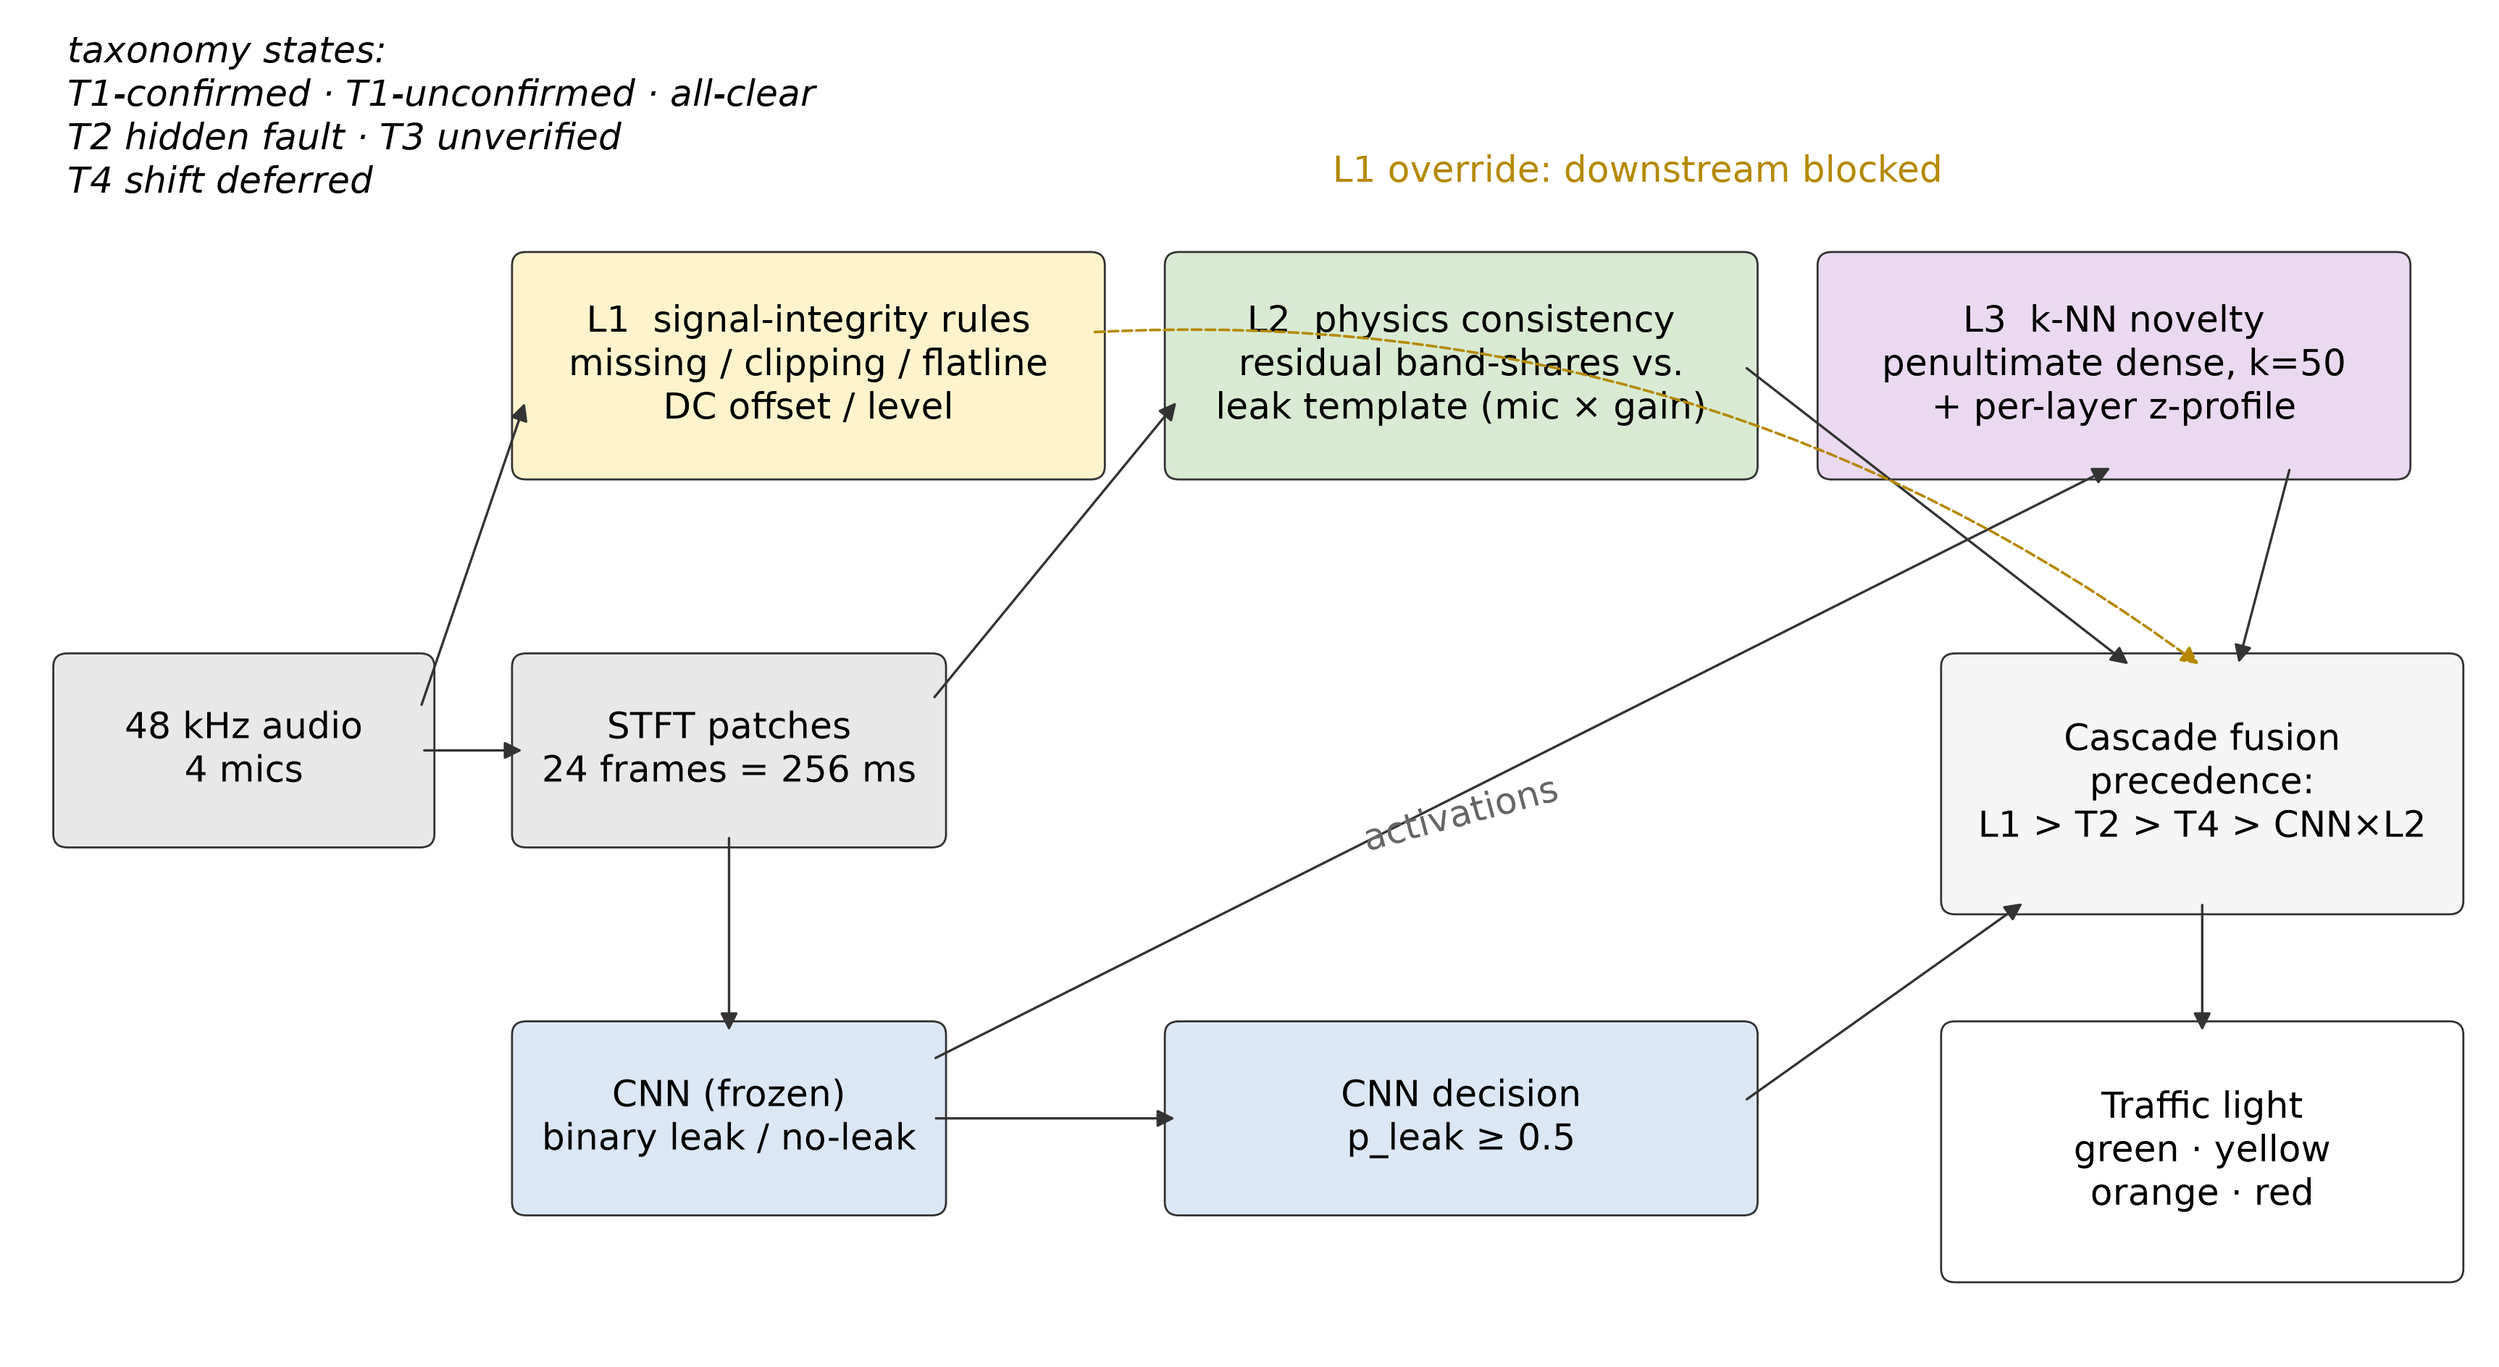
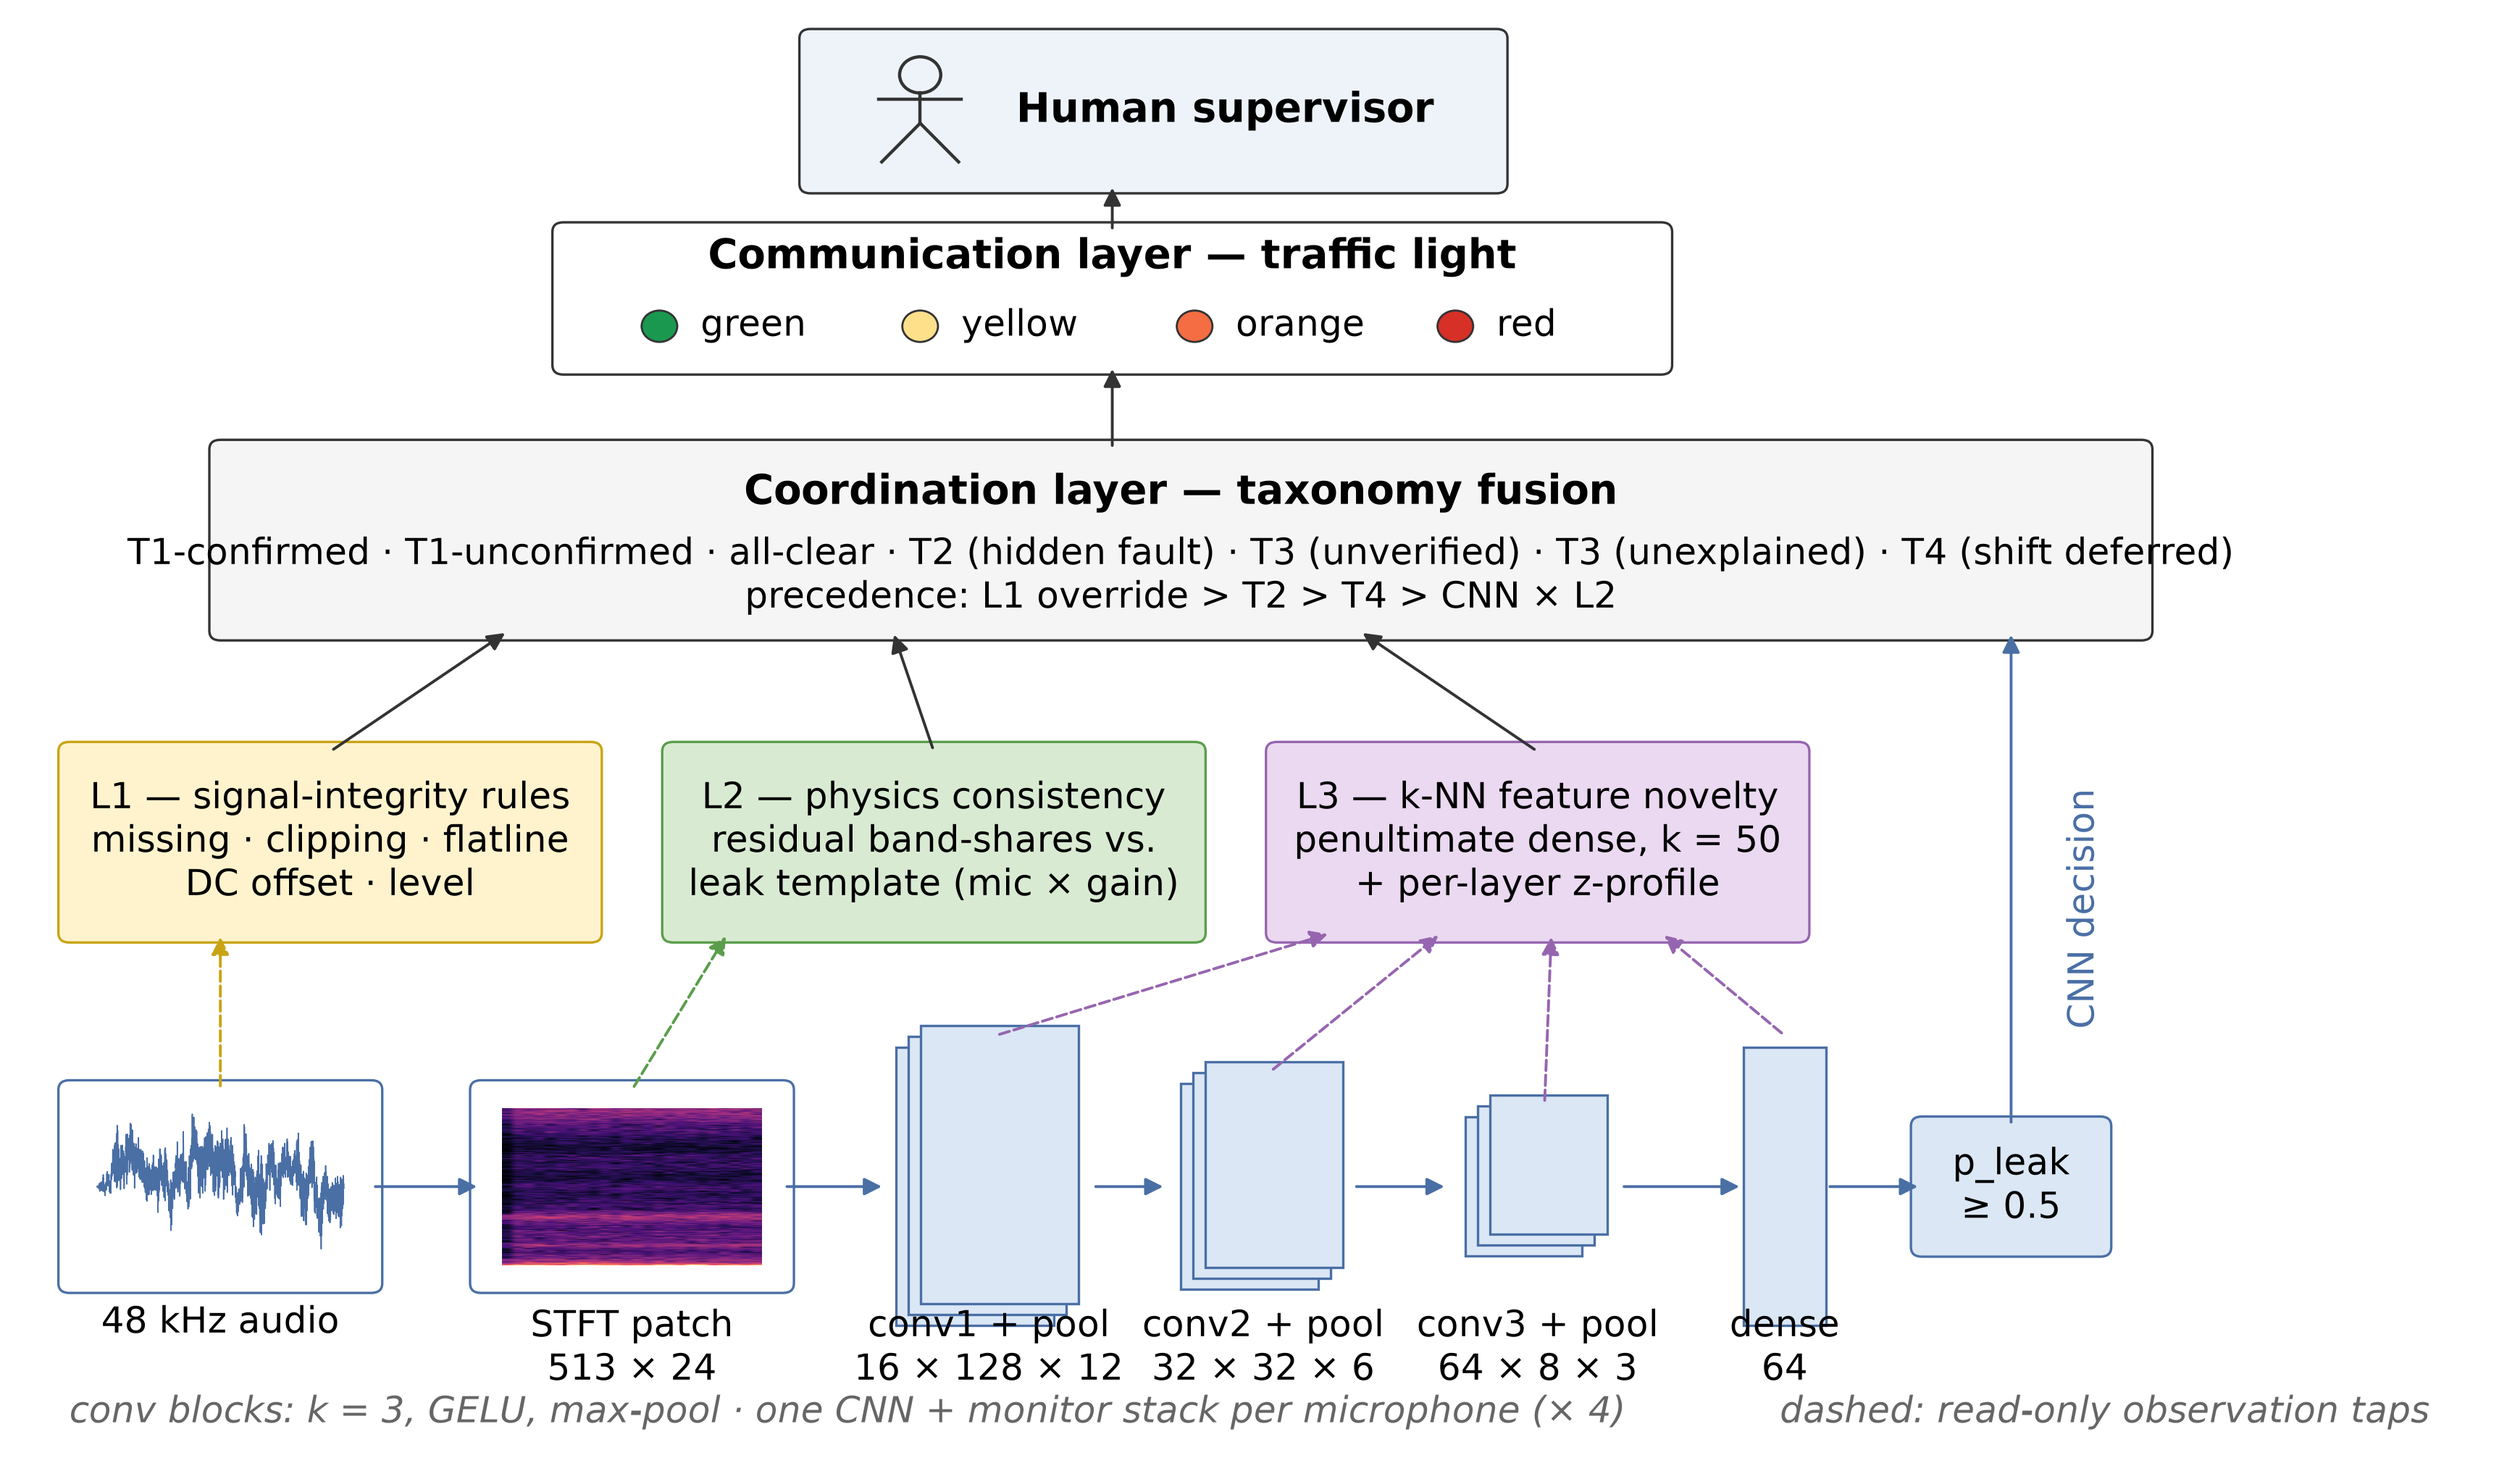
Redraw architecture figure: ML-style CNN pipeline with monitor taps and layer stack

diff --git a/monitoring/paper_figures.py b/monitoring/paper_figures.py
@@ -30,7 +30,7 @@ import matplotlib.pyplot as plt
 import numpy as np
 import pandas as pd
 import soundfile as sf
-from matplotlib.patches import FancyBboxPatch
+from matplotlib.patches import Circle, FancyBboxPatch, Rectangle
 from scipy import signal
 
 matplotlib.use("Agg")
@@ -105,60 +105,143 @@ def load(path: Path) -> np.ndarray:
 
 
 # ---------------------------------------------------------------------------
-def fig1() -> None:
-    fig, ax = plt.subplots(figsize=(22, 12))
-    ax.set_xlim(0, 14)
-    ax.set_ylim(0, 8)
+def fig1(index: pd.DataFrame) -> None:
+    """COMET architecture: CNN pipeline (ML-paper style) with the monitor
+    observation taps, feeding coordination -> communication -> supervisor."""
+    x = load(pick(index, leak_type="vent", background="lab",
+                  annotation="nio", knob=6.0))
+
+    fig, ax = plt.subplots(figsize=(22, 13))
+    ax.set_xlim(0, 18)
+    ax.set_ylim(0, 12)
     ax.axis("off")
 
-    def box(x, y, w, h, text, fc="#f0f0f0", ec="#333333", fs=18):
-        ax.add_patch(FancyBboxPatch((x, y), w, h, boxstyle="round,pad=0.08",
-                                    fc=fc, ec=ec, lw=1.0))
-        ax.text(x + w / 2, y + h / 2, text, ha="center", va="center", fontsize=fs)
+    C_CNN, E_CNN = "#dbe7f5", "#4a6fa5"
+    C_L1, E_L1 = "#fff3cd", "#c8a415"
+    C_L2, E_L2 = "#d9ead3", "#5a9e4b"
+    C_L3, E_L3 = "#ead9f0", "#9665b0"
 
-    def arrow(x1, y1, x2, y2, style="-", color="#333333", lw=1.2, rad=0.0):
+    def box(x0, y0, w, h, text, fc="#f0f0f0", ec="#333333", fs=18, lw=1.2):
+        ax.add_patch(FancyBboxPatch((x0, y0), w, h, boxstyle="round,pad=0.08",
+                                    fc=fc, ec=ec, lw=lw, zorder=3))
+        ax.text(x0 + w / 2, y0 + h / 2, text, ha="center", va="center",
+                fontsize=fs, zorder=4)
+
+    def fmap(xc, yc, w, h, n=3, off=0.09):
+        for i in range(n - 1, -1, -1):
+            ax.add_patch(Rectangle((xc - w / 2 + i * off, yc - h / 2 + i * off),
+                                   w, h, fc=C_CNN, ec=E_CNN, lw=1.2,
+                                   zorder=2 + i))
+
+    def arrow(x1, y1, x2, y2, style="-", color="#333333", lw=1.4):
         ax.annotate("", xy=(x2, y2), xytext=(x1, y1),
                     arrowprops=dict(arrowstyle="-|>", lw=lw, color=color,
-                                    linestyle=style,
-                                    connectionstyle=f"arc3,rad={rad}"))
+                                    linestyle=style), zorder=5)
 
-    # left column: input + preprocessing
-    box(0.3, 3.1, 2.0, 1.0, "48 kHz audio\n4 mics", "#e8e8e8")
-    box(2.9, 3.1, 2.3, 1.0, "STFT patches\n24 frames = 256 ms", "#e8e8e8")
-    # monitor row (top)
-    box(2.9, 5.3, 3.2, 1.2, "L1  signal-integrity rules\nmissing / clipping / flatline\nDC offset / level", "#fff3cd", fs=18)
-    box(6.6, 5.3, 3.2, 1.2, "L2  physics consistency\nresidual band-shares vs.\nleak template (mic × gain)", "#d9ead3", fs=18)
-    box(10.3, 5.3, 3.2, 1.2, "L3  k-NN novelty\npenultimate dense, k=50\n+ per-layer z-profile", "#ead9f0", fs=18)
-    # classifier row (bottom)
-    box(2.9, 0.9, 2.3, 1.0, "CNN (frozen)\nbinary leak / no-leak", "#dbe7f5")
-    box(6.6, 0.9, 3.2, 1.0, "CNN decision\np_leak ≥ 0.5", "#dbe7f5")
-    # fusion + output (right)
-    box(11.0, 2.7, 2.8, 1.4, "Cascade fusion\nprecedence:\nL1 > T2 > T4 > CNN×L2", "#f5f5f5")
-    box(11.0, 0.5, 2.8, 1.4, "Traffic light\ngreen · yellow\norange · red", "#ffffff")
+    # ---- CNN pipeline (bottom) --------------------------------------------
+    # raw audio with waveform thumbnail
+    box(0.4, 1.5, 2.2, 1.6, "", "#ffffff", E_CNN)
+    wv = x[:3000]
+    ax.plot(np.linspace(0.6, 2.4, len(wv)),
+            2.3 + 0.6 * wv / np.abs(wv).max(),
+            lw=0.6, color=E_CNN, zorder=4)
+    ax.text(1.5, 1.32, "48 kHz audio", ha="center", va="top", fontsize=18)
 
-    arrow(2.3, 3.85, 2.9, 5.7)                   # audio -> L1
-    arrow(2.3, 3.6, 2.9, 3.6)                    # audio -> STFT
-    arrow(5.2, 3.9, 6.6, 5.7)                    # STFT -> L2 (band energies)
-    arrow(4.05, 3.1, 4.05, 1.9)                  # STFT -> CNN
-    arrow(5.2, 1.4, 6.6, 1.4)                    # CNN -> decision
-    arrow(5.2, 1.75, 11.9, 5.3)                  # CNN activations -> L3
-    ax.text(8.2, 3.0, "activations", fontsize=18, color="#666666",
-            rotation=15, ha="center")
-    arrow(9.8, 1.5, 11.4, 2.7)                   # decision -> fusion
-    arrow(9.8, 5.9, 12.0, 4.1)                   # L2 -> fusion
-    arrow(12.9, 5.3, 12.6, 4.1)                  # L3 -> fusion
-    arrow(6.1, 6.1, 12.4, 4.1, style="--", color="#b58900", lw=1.3, rad=-0.18)
-    ax.text(9.2, 7.0, "L1 override: downstream blocked", fontsize=18,
-            color="#b58900", ha="center")
-    arrow(12.4, 2.7, 12.4, 1.9)                  # fusion -> traffic
+    # STFT patch thumbnail (513 x 24)
+    box(3.4, 1.5, 2.2, 1.6, "", "#ffffff", E_CNN)
+    S = logspec(x[:6 * FS])[:, :24]
+    ax.imshow(S, origin="lower", aspect="auto", cmap="magma",
+              extent=(3.55, 5.45, 1.65, 2.95), zorder=4)
+    ax.text(4.5, 1.32, "STFT patch\n513 × 24", ha="center", va="top",
+            fontsize=18)
 
-    ax.text(0.3, 7.9, "taxonomy states:\n"
-                      "T1-confirmed · T1-unconfirmed · all-clear\n"
-                      "T2 hidden fault · T3 unverified\n"
-                      "T4 shift deferred",
-            fontsize=18, ha="left", va="top", style="italic")
+    # conv blocks as feature-map stacks
+    fmap(7.0, 2.3, 1.15, 2.3)
+    ax.text(7.1, 1.32, "conv1 + pool\n16 × 128 × 12", ha="center", va="top",
+            fontsize=18)
+    fmap(9.0, 2.3, 1.0, 1.7)
+    ax.text(9.1, 1.32, "conv2 + pool\n32 × 32 × 6", ha="center", va="top",
+            fontsize=18)
+    fmap(11.0, 2.3, 0.85, 1.15)
+    ax.text(11.1, 1.32, "conv3 + pool\n64 × 8 × 3", ha="center", va="top",
+            fontsize=18)
+
+    # dense bar + output
+    ax.add_patch(Rectangle((12.6, 1.15), 0.6, 2.3, fc=C_CNN, ec=E_CNN,
+                           lw=1.2, zorder=3))
+    ax.text(12.9, 1.32, "dense\n64", ha="center", va="top", fontsize=18)
+    box(13.9, 1.8, 1.3, 1.0, "p_leak\n≥ 0.5", C_CNN, E_CNN)
+
+    for x1, x2 in ((2.6, 3.4), (5.6, 6.35), (7.85, 8.4), (9.75, 10.45),
+                   (11.7, 12.6), (13.2, 13.9)):
+        arrow(x1, 2.3, x2, 2.3, color=E_CNN)
+
+    # ---- monitors (middle) -------------------------------------------------
+    box(0.4, 4.4, 3.8, 1.5, "L1 — signal-integrity rules\n"
+                            "missing · clipping · flatline\n"
+                            "DC offset · level", C_L1, E_L1)
+    box(4.8, 4.4, 3.8, 1.5, "L2 — physics consistency\n"
+                            "residual band-shares vs.\n"
+                            "leak template (mic × gain)", C_L2, E_L2)
+    box(9.2, 4.4, 3.8, 1.5, "L3 — k-NN feature novelty\n"
+                            "penultimate dense, k = 50\n"
+                            "+ per-layer z-profile", C_L3, E_L3)
+
+    # observation taps (dashed, read-only)
+    arrow(1.5, 3.1, 1.5, 4.4, style="--", color=E_L1)      # waveform -> L1
+    arrow(4.5, 3.1, 5.2, 4.4, style="--", color=E_L2)      # band energies -> L2
+    arrow(7.15, 3.55, 9.6, 4.4, style="--", color=E_L3)    # conv1 -> L3
+    arrow(9.15, 3.25, 10.4, 4.4, style="--", color=E_L3)   # conv2 -> L3
+    arrow(11.15, 2.98, 11.2, 4.4, style="--", color=E_L3)  # conv3 -> L3
+    arrow(12.9, 3.55, 12.0, 4.4, style="--", color=E_L3)   # dense -> L3
+    ax.text(17.6, 0.35, "dashed: read-only observation taps",
+            ha="right", fontsize=18, color="#666666", style="italic")
+    ax.text(0.4, 0.35, "conv blocks: k = 3, GELU, max-pool · "
+                       "one CNN + monitor stack per microphone (× 4)",
+            ha="left", fontsize=18, color="#666666", style="italic")
+
+    # ---- coordination layer ------------------------------------------------
+    box(1.5, 6.9, 14.0, 1.5, "", "#f5f5f5", "#333333")
+    ax.text(8.5, 7.95, "Coordination layer — taxonomy fusion", ha="center",
+            fontsize=20, weight="bold")
+    ax.text(8.5, 7.35, "T1-confirmed · T1-unconfirmed · all-clear · "
+                       "T2 (hidden fault) · T3 (unverified) · "
+                       "T3 (unexplained) · T4 (shift deferred)\n"
+                       "precedence: L1 override > T2 > T4 > CNN × L2",
+            ha="center", va="center", fontsize=18)
+    arrow(2.3, 5.9, 3.6, 6.9)                              # L1 -> coordination
+    arrow(6.7, 5.9, 6.4, 6.9)                              # L2 -> coordination
+    arrow(11.1, 5.9, 9.8, 6.9)                             # L3 -> coordination
+    arrow(14.55, 2.8, 14.55, 6.9, color=E_CNN)             # CNN decision -> coordination
+    ax.text(14.95, 4.6, "CNN decision", rotation=90, va="center",
+            fontsize=18, color=E_CNN)
+
+    # ---- communication layer -----------------------------------------------
+    box(4.0, 9.1, 8.0, 1.1, "", "#ffffff", "#333333")
+    ax.text(8.0, 9.9, "Communication layer — traffic light", ha="center",
+            fontsize=20, weight="bold")
+    for xc, col, lab in ((4.7, "#1a9850", "green"), (6.6, "#fee08b", "yellow"),
+                         (8.6, "#f46d43", "orange"), (10.5, "#d73027", "red")):
+        ax.add_patch(Circle((xc, 9.42), 0.13, fc=col, ec="#333333",
+                            lw=1.0, zorder=4))
+        ax.text(xc + 0.3, 9.42, lab, va="center", fontsize=18, zorder=4)
+    arrow(8.0, 8.4, 8.0, 9.1)
+
+    # ---- human supervisor ---------------------------------------------------
+    box(5.8, 10.6, 5.0, 1.2, "", "#eef3fa", "#333333")
+    ax.add_patch(Circle((6.6, 11.5), 0.15, fc="none", ec="#333333",
+                        lw=1.6, zorder=4))
+    ax.plot([6.6, 6.6], [11.35, 11.1], color="#333333", lw=1.6, zorder=4)
+    ax.plot([6.3, 6.9], [11.3, 11.3], color="#333333", lw=1.6, zorder=4)
+    ax.plot([6.6, 6.32], [11.1, 10.78], color="#333333", lw=1.6, zorder=4)
+    ax.plot([6.6, 6.88], [11.1, 10.78], color="#333333", lw=1.6, zorder=4)
+    ax.text(7.3, 11.2, "Human supervisor", ha="left", va="center",
+            fontsize=20, weight="bold")
+    arrow(8.0, 10.2, 8.0, 10.6)
+
     fig.savefig(OUT / "fig1_architecture.png")
     plt.close(fig)
+
 
 
 def fig2(index: pd.DataFrame) -> None:
@@ -398,7 +481,7 @@ def main() -> None:
     edge = json.loads(Path("results/edge_profile.json").read_text())
     index = pd.read_csv("data/index.csv")
 
-    fig1()
+    fig1(index)
     fig2(index)
     fig3()
     fig4(abl)
